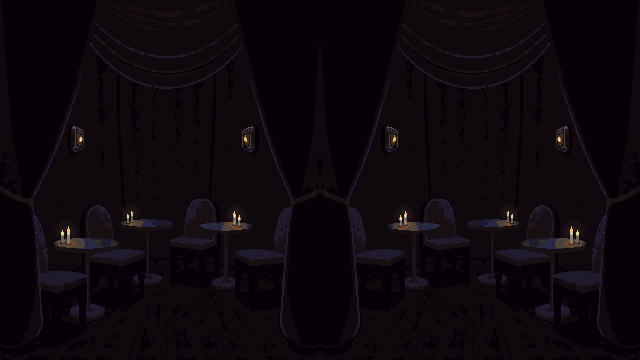
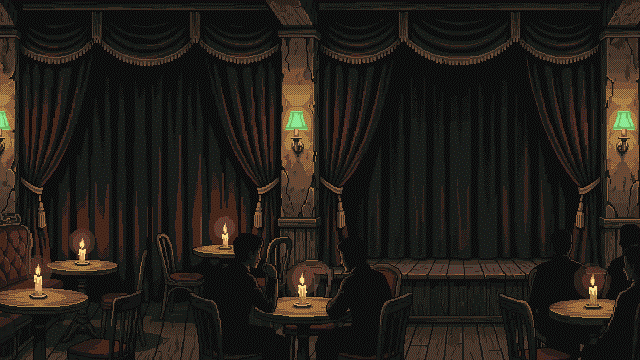
The mirror comes off the backdrops, and the deck becomes a deck
Every venue is one painting now, not two halves of one. create_image_pixen
takes 768px a side against pixflux's 400, so 640x360 fits in a single image -
which retires the bilateral mirror line down the middle of five venues, the
"nothing focal in the centre" prompt contortion it forced, and the rule that
the Backyard and the Street Corner could not be generated at all. Those two
were the weakest pictures in the game for exactly that reason.

Pixen cannot force a palette, so the forcing moved into the reducer, in Oklab,
against the same locked 48. The gate for whether a painting survives that is
not the mean distance - measured, a good picture and a badly broken one sit at
0.028 and 0.034, a 1.2x spread for a difference that is glaring. The damage is
localised, so it shows up in the tail: 2.9% against 26.9% of pixels further
than 0.05 from any entry. Measure the tail.

The eight card illustrations were each fine alone and had nothing in common
laid side by side - a cold blue waterfall, a duck on a green pond, a cream
temple, and a High Toss card that was 98% transparent. Same metaphors, one art
direction: every subject under a cone of warm amber light on a dark stage.
Behind the Back was also just the wrong man, in a grey jacket and a red apron,
sitting next to the showman himself on the same screen.

These paintings are full-bleed where the old ones carried a transparent
margin, so the frame's rounded corner is punched out of the sprite's own alpha
[…]

diff --git a/scripts/pixelise_paint.py b/scripts/pixelise_paint.py
@@ -1,0 +1,164 @@
+#!/usr/bin/env python3
+"""Reduce a FULL-FRAME PixelLab painting to a shipped 640x360 backdrop.
+
+WHY THIS EXISTS ALONGSIDE pixelise_bg.py. That script reduces the game's own --bgref
+capture (a drawing) and snaps it with a plain nearest-colour pass. This one takes a
+PAINTING straight from PixelLab, already authored at the art density, and snaps it with
+serpentine error diffusion. A drawing is flat fills that land on the palette almost
+exactly; a painting is continuous tone, and a nearest-colour snap turns its skies and
+its lamplight into hard bands. Same reasoning, and the same ERR_CLAMP, as pixelise_ext.
+
+THE MIRROR IS GONE, AND THAT IS THE POINT OF THIS FILE. Five of the seven backdrops were
+built as one 320x360 half mirrored down the middle, because create_image_pixflux caps a
+side at 400px. `create_image_pixen` takes up to 768 per side with a 512x512 area budget,
+and 640x360 = 230400 is inside it - so a backdrop is now ONE image. That removes three
+standing compromises at once:
+
+  1. the visible bilateral mirror line down the centre of every indoor venue;
+  2. "anything focal at the centre gets duplicated by the mirror", which is why the old
+     prompts had to say "the far LEFT SIDE only" and why one tent came back with two poles;
+  3. the rule that asymmetric outdoor venues (the Backyard, the Street Corner) could not be
+     generated at all and had to be derived from the game's own dressing instead. They were
+     the two weakest pictures in the game precisely because of it.
+
+WHAT PIXEN DOES NOT DO is force a palette - it has no color_image_base64. That is fine
+here and was always the weaker half of the deal: the forcing happens in this script, in
+Oklab, against the same locked 48. Measured on the seven: the raw paintings come back with
+thousands of colours and reduce to 28-40, which is the same range the palette-forced
+pixflux halves landed in.
+
+WHAT THE PAINTING MUST NOT CONTAIN is light that reacts to the player. draw_backdrop
+replaces exactly two layers with this sprite - the sky gradient and the set dressing - and
+then draws the veil, the spotlight cone, the footlights and the floor OVER it, because the
+cone narrows and warms as a streak builds. A backdrop with its own spotlight baked in
+freezes the half of the picture that is answering the player.
+
+TWO FRAMING RULES THE PROMPTS HAVE TO CARRY, both measured off draw_backdrop:
+  - the bottom 20% (art y >= 288) is covered by the stage floor, so nothing essential
+    may live there;
+  - the performer stands dead centre and is ~172 art px tall, so the centre column wants
+    to be empty - a tent pole or a doorway behind his spine reads as a mistake.
+
+USAGE
+  scripts/fetch_paint.sh <job-id> artifacts/paint/<name>.png     # download
+  .venv/bin/python scripts/pixelise_paint.py <name> [...]        # preview
+  .venv/bin/python scripts/pixelise_paint.py <name> --write
+"""
+
+from __future__ import annotations
+
+import sys
+from pathlib import Path
+
+import numpy as np
+from PIL import Image
+
+import artguard
+from pixelise_ext import snap_diffused
+from pixelise_menu import ART_H, ART_W, load_palette, srgb_to_oklab
+
+ROOT = Path(__file__).resolve().parent.parent
+SRC = ROOT / "artifacts" / "paint"
+OUT = ROOT / "Assets" / "Backgrounds"
+
+# venue order matches Game.gd's venue_data(); the key is bg/<name>
+NAMES = ["backyard", "street_corner", "small_theatre", "the_circus",
+		 "championship", "world_arena", "the_midnight_show"]
+
+
+# HOW MUCH OF A PAINTING MAY SIT OUTSIDE THE LOCKED 48 BEFORE IT IS NOT WORTH SHIPPING.
+#
+# THE PALETTE IS A WARM THEATRE PALETTE and that is the whole reason this gate exists.
+# Measured on the first two full-frame paintings: the circus (warm reds, cream, amber)
+# came through the snap essentially intact; the backyard, painted with a desaturated TEAL
+# dusk sky, had its whole sky land on muddy grey-brown speckled with the palette's only
+# greens, which are bright and saturated. Nothing in the reducer can fix that - error
+# diffusion moves a residual around, it cannot invent a colour the palette does not have,
+# and at that distance every neighbour is wrong in the same direction.
+#
+# THE MEAN DISTANCE IS THE WRONG STATISTIC AND NEARLY FOOLED ME. The two score 0.028 and
+# 0.034 - a 1.2x spread for a difference that is glaring on screen - because the damage is
+# LOCALISED to the sky and a whole-frame mean averages it against a lot of fabric that
+# snapped perfectly. What separates them is the TAIL: the fraction of pixels further than
+# 0.05 Oklab from any entry is 2.9% on the circus and 26.9% on the backyard (51.5% over its
+# sky band alone), a 9x separation. Measure the tail, not the average.
+#
+# The fix is always at the PROMPT, never here: steer a sky to deep indigo (the palette
+# holds 1f1a2e / 282848 / 585078) rather than teal, and keep foliage dark rather than
+# mid-green. 0.10 sits an order of magnitude clear of the good case.
+GAMUT_FAR = 0.05
+GAMUT_MAX = 0.10
+
+
+def gamut_fit(rgb: np.ndarray) -> float:
+	"""Fraction of pixels further than GAMUT_FAR from the nearest palette entry.
+
+	Answers the one question a thumbnail cannot: will this painting SURVIVE the snap? A
+	picture inside the palette's gamut reduces to itself; one outside it reduces to
+	whatever is least wrong, and no amount of dithering rescues that.
+	"""
+	lab_p = srgb_to_oklab(load_palette().astype(float))
+	flat = srgb_to_oklab(rgb.reshape(-1, 3).astype(float))
+	# chunked: 230k pixels against 48 entries at once is 33M floats
+	far = 0
+	for i in range(0, len(flat), 32768):
+		part = flat[i:i + 32768]
+		d = np.linalg.norm(part[:, None, :] - lab_p[None, :, :], axis=2).min(axis=1)
+		far += int((d > GAMUT_FAR).sum())
+	return far / len(flat)
+
+
+def build(name: str, write: bool, force: bool) -> str:
+	src = SRC / f"{name}.png"
+	if not src.exists():
+		return f"{name}: no painting at artifacts/paint/{name}.png"
+	im = Image.open(src).convert("RGB")
+	if im.size != (ART_W, ART_H):
+		raise SystemExit(f"{name}: expected {ART_W}x{ART_H}, got {im.size}. A backdrop is "
+						 "authored at the art density and must never be resampled.")
+	src_rgb = np.asarray(im).astype(int)
+	out = snap_diffused(src_rgb, load_palette())
+	# opaque by construction: a backdrop covers the frame, and the seam blits it full-rect
+	rgba = np.dstack([out, np.full(out.shape[:2], 255, np.uint8)])
+	cols = len(np.unique(out.reshape(-1, 3), axis=0))
+	spine = spine_busyness(out)
+	fit = gamut_fit(src_rgb)
+	tag = f"{name}: {cols} colours, spine {spine:.2f}, gamut {fit:.3f}{'  <-- REPROMPT' if fit > GAMUT_MAX else ''}"
+	if not write:
+		return tag + "  (pass --write to apply)"
+	return tag + " [" + artguard.save_guarded(
+		OUT / f"{name}.png", lambda q: Image.fromarray(rgba, "RGBA").save(q), force) + "]"
+
+
+def spine_busyness(img: np.ndarray) -> float:
+	"""Mean horizontal detail in the performer's column, relative to the whole row.
+
+	Not a gate - a backdrop is judged by eye - but a vertical feature standing behind the
+	figure's spine is the one composition fault a 640x360 thumbnail hides completely and
+	the game then shows every single frame. He stands at x = 320 and is about 172 art px
+	tall, so this compares mean absolute horizontal gradient down the middle 60 px, over
+	the rows he actually occupies, against the same measure across the whole row. Around
+	1.0 is "as busy as anywhere else"; well above it means something is standing there.
+	"""
+	g = img.astype(float).mean(axis=2)
+	rows = slice(116, 288)                     # crown to floor at the figure's real height
+	d = np.abs(np.diff(g[rows], axis=1))
+	mid = d[:, 290:350].mean()
+	allr = d.mean()
+	return float(mid / allr) if allr > 0 else 0.0
+
+
+def main() -> int:
+	write = "--write" in sys.argv
+	force = "--force" in sys.argv
+	only = [a for a in sys.argv[1:] if not a.startswith("--")]
+	OUT.mkdir(parents=True, exist_ok=True)
+	for name in NAMES:
+		if only and name not in only:
+			continue
+		print("  " + build(name, write, force))
+	return 0
+
+
+if __name__ == "__main__":
+	raise SystemExit(main())

diff --git a/scripts/install_cards.py b/scripts/install_cards.py
@@ -1,0 +1,128 @@
+#!/usr/bin/env python3
+"""Install the eight skill/pattern card illustrations from artifacts/carddeck/.
+
+WHY THE DECK WAS REGENERATED AS A SET (2026-08-13). The eight cards were generated one at
+a time on 2026-08-07 and each one is fine on its own; laid out side by side they were the
+worst uniformity break left in the game. A cold blue waterfall, a bright yellow duck on a
+GREEN pond, a cream Greek temple, a photoreal mallard, a ballerina, and a "high toss" card
+that measured 98% TRANSPARENT - eight pictures with no shared framing, no shared light and
+no shared background, sitting in one row on the Skills screen.
+
+The metaphors are Louis's own (ballerina / waterfall / temple / duck / duckling / racket /
+behind-the-back / high toss) and are kept exactly. What changed is that every prompt now
+carries the SAME art-direction clause: the subject centred under a wide vertical cone of
+warm amber spotlight, standing in an elliptical pool of light, against a deep warm brown
+background. The deck is a set of eight things on the same dark stage, which is both what
+the game is about and the cheapest possible way to make eight unrelated subjects agree.
+
+THE BEHIND-THE-BACK CARD WAS ALSO SIMPLY WRONG. It showed a man in a grey-green jacket and
+a red apron - not the showman, who is the only performer in this game, and who was standing
+in the preview panel immediately to its right on the same screen.
+
+THESE ARE OPAQUE, AND THE PREVIOUS ONES WERE NOT. That is a deliberate change and it is the
+one thing that needed care. draw_skill_card_art measures a painting against `r`, the full
+card window, on the documented grounds that "a painted illustration carries its own
+transparent margin". These paintings do not - they are full-bleed - so they would square off
+the frame's rounded corners, which is the exact defect the 5.5% inset was added for and then
+retired. Rather than reintroduce the inset (which drops the art below the whole-2x scale
+art_blit_fit insists on, silently falling back to the drawing), the corner is punched out of
+the illustration's OWN alpha here, at the sprite's own radius, so it scales with the card.
+
+USAGE
+  .venv/bin/python scripts/install_cards.py           preview
+  .venv/bin/python scripts/install_cards.py --write
+"""
+
+from __future__ import annotations
+
+import sys
+from pathlib import Path
+
+import numpy as np
+from PIL import Image
+
+import artguard
+from pixelise_menu import load_palette, srgb_to_oklab
+
+ROOT = Path(__file__).resolve().parent.parent
+SRC = ROOT / "artifacts" / "carddeck"
+OUT = ROOT / "Assets" / "UI" / "cards"
+
+CARD_W, CARD_H = 104, 128
+
+# draw_card_art_window's own corner, DERIVED not chosen: it calls soft_card with radius
+# 10.0, and draw_card_pix converts that to art pixels as round(radius / ART_PIXEL) = 5.
+# (The window is drawn whenever the `card_v2` experiment is on, and it defaults to true.)
+#
+# Punching the radius into the SPRITE rather than rounding in screen space is what makes it
+# correct at both sizes the card is drawn at: the illustration is authored at exactly the
+# Skills window's 104x128 and art_blit_fit blits it at whole zooms, so a corner cut here
+# scales with the picture. A fixed screen-space rounding would be right at one size only.
+CORNER_R = 5
+
+NAMES = ["btb", "cascade", "columns", "halfshower", "high", "shower", "spin", "tennis"]
+
+
+def round_corners(rgba: np.ndarray, radius: int) -> np.ndarray:
+	"""Clear the four corners to transparent, on the art grid.
+
+	Uses the same digital quarter-circle rule as Game.gd's pix_corner: each row's inset is
+	measured at the row's CENTRE, not its top edge, so the staircase matches the frame the
+	card is drawn in instead of sitting a pixel inside or outside it.
+	"""
+	out = rgba.copy()
+	h, w = out.shape[:2]
+	for i in range(radius):
+		dy = radius - (i + 0.5)
+		dx = np.sqrt(max(0.0, radius * radius - dy * dy))
+		inset = int(np.clip(radius - round(dx), 0, radius))
+		if inset <= 0:
+			continue
+		for row in (i, h - 1 - i):
+			out[row, :inset, 3] = 0
+			out[row, w - inset:, 3] = 0
+	return out
+
+
+def off_palette(rgb: np.ndarray) -> int:
+	"""How many pixels are not exactly on the locked 48.
+
+	pixflux's color_image_base64 forces the palette, so this should be zero and is checked
+	rather than assumed - a silent drift here would put colours in the UI that exist nowhere
+	else in the game.
+	"""
+	pal = {tuple(c) for c in load_palette()}
+	return sum(1 for c in map(tuple, rgb.reshape(-1, 3)) if c not in pal)
+
+
+def build(name: str, write: bool, force: bool) -> str:
+	src = SRC / f"{name}.png"
+	if not src.exists():
+		return f"{name}: no art at artifacts/carddeck/{name}.png"
+	im = Image.open(src).convert("RGBA")
+	if im.size != (CARD_W, CARD_H):
+		raise SystemExit(f"{name}: expected {CARD_W}x{CARD_H}, got {im.size}")
+	a = np.asarray(im).copy()
+	bad = off_palette(a[..., :3])
+	a = round_corners(a, CORNER_R)
+	tag = f"{name}: {len(np.unique(a[..., :3].reshape(-1, 3), axis=0))} colours, {bad} off-palette"
+	if not write:
+		return tag + "  (pass --write to apply)"
+	return tag + " [" + artguard.save_guarded(
+		OUT / f"{name}.png", lambda q: Image.fromarray(a, "RGBA").save(q), force) + "]"
+
+
+def main() -> int:
+	write = "--write" in sys.argv
+	force = "--force" in sys.argv
+	only = [x for x in sys.argv[1:] if not x.startswith("--")]
+	OUT.mkdir(parents=True, exist_ok=True)
+	for name in NAMES:
+		if only and name not in only:
+			continue
+		print("  " + build(name, write, force))
+	return 0
+
+
+if __name__ == "__main__":
+	raise SystemExit(main())
